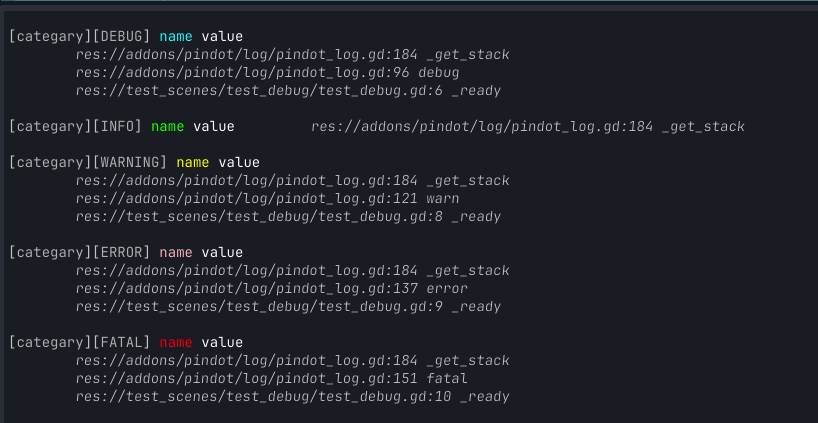
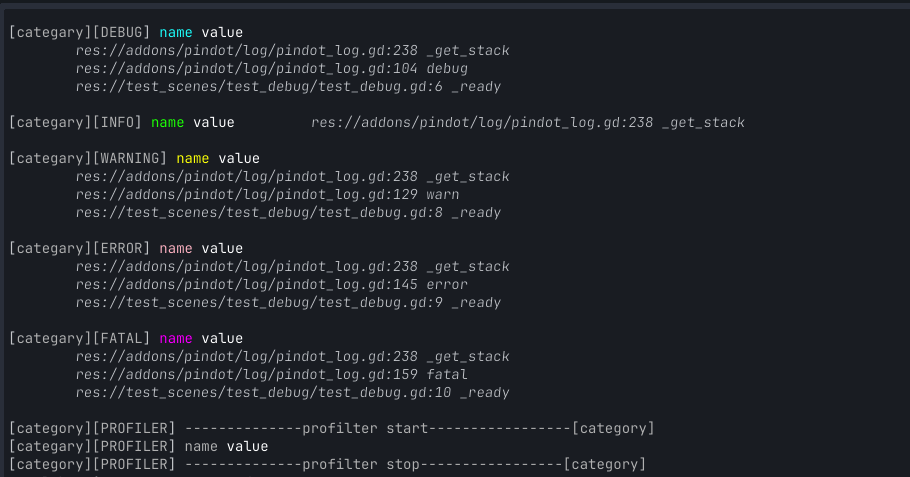
添加打印分析日志

diff --git a/docs/LOG.md b/docs/LOG.md
@@ -3,7 +3,6 @@
 ## 日志
 打印日志
 ```gdscript
-
 func _ready() -> void:
 	# 可以打印调试信息
 	Pindot.log.debug("name", "value", "categary")
@@ -12,6 +11,10 @@ func _ready() -> void:
 	Pindot.log.error("name", "value", "categary")
 	Pindot.log.fatal("name", "value", "categary")
 
+	# 可以记录分析日志
+	Pindot.log.profiler_start("category")
+	Pindot.log.profiler("name", "value", "categary")
+	Pindot.log.profiler_stop("category")
 ```
 
 在godot编辑器中的效果
